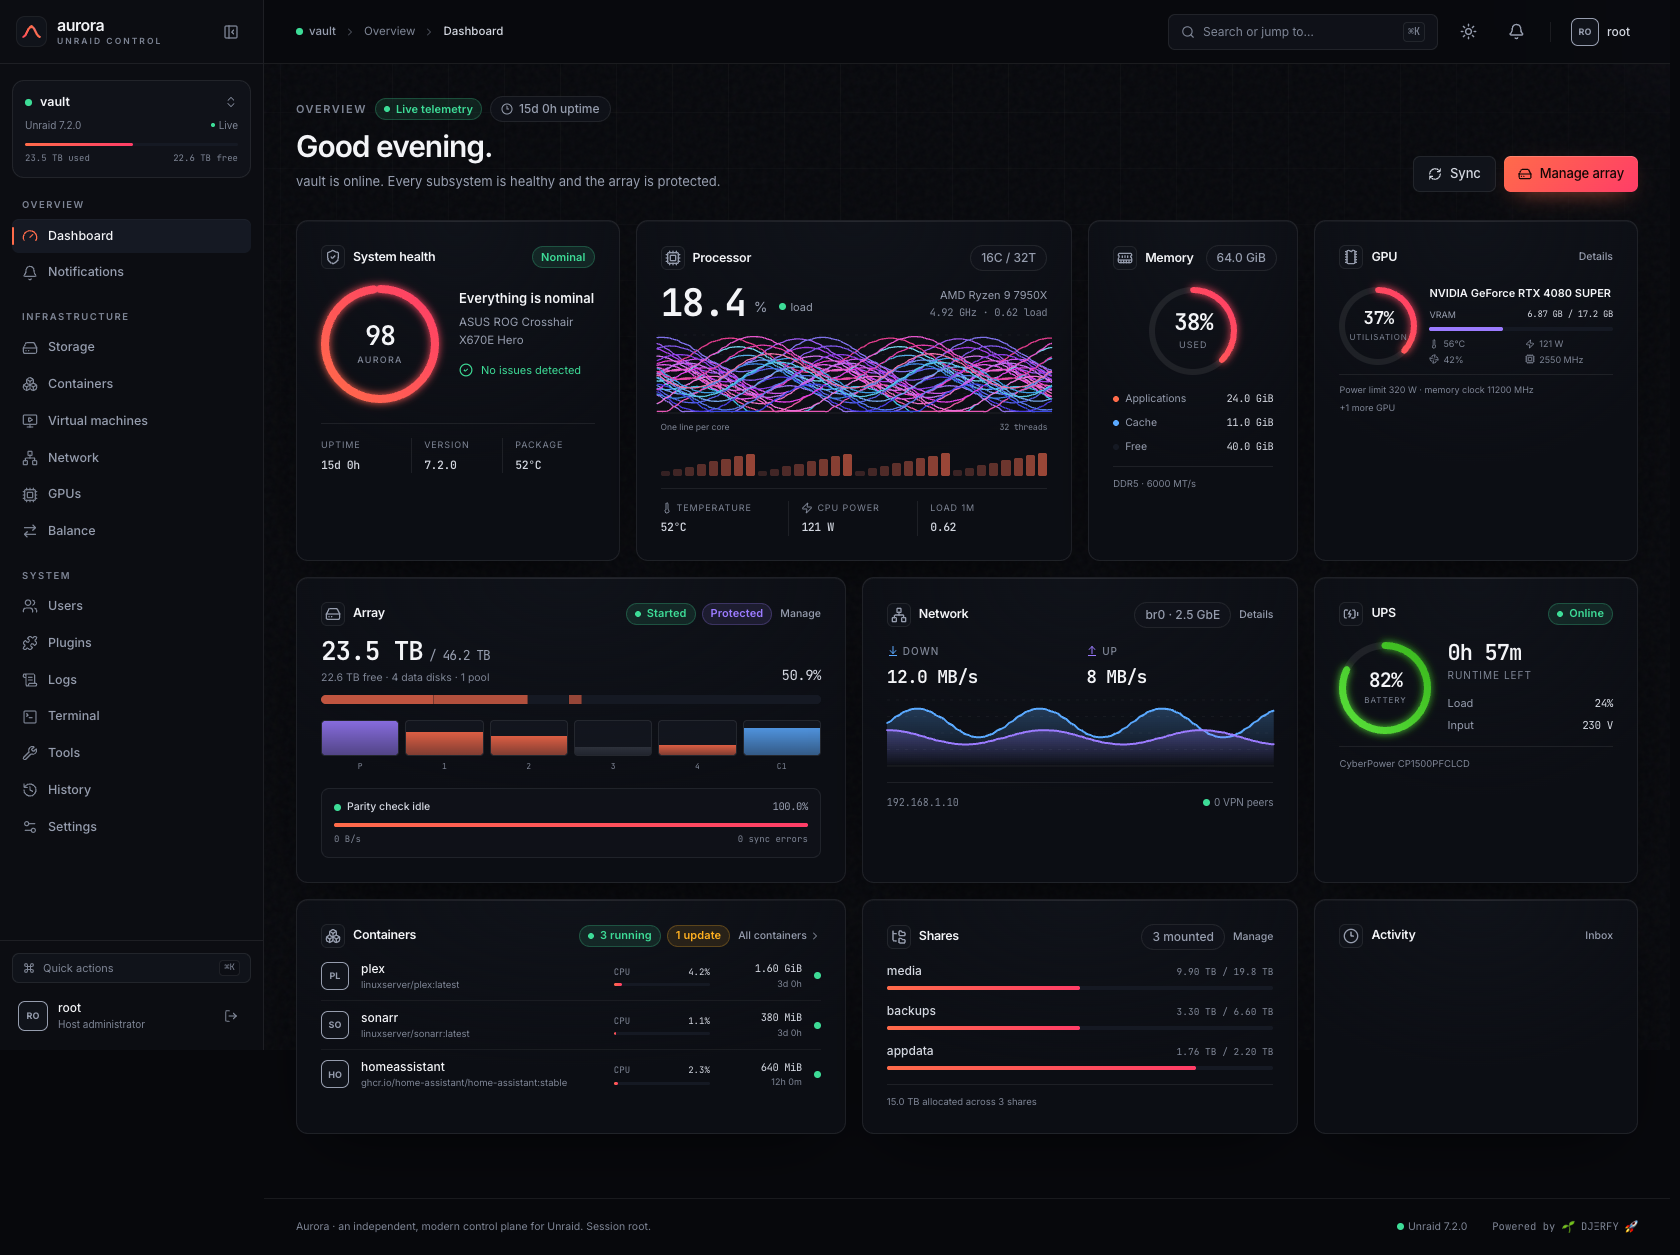
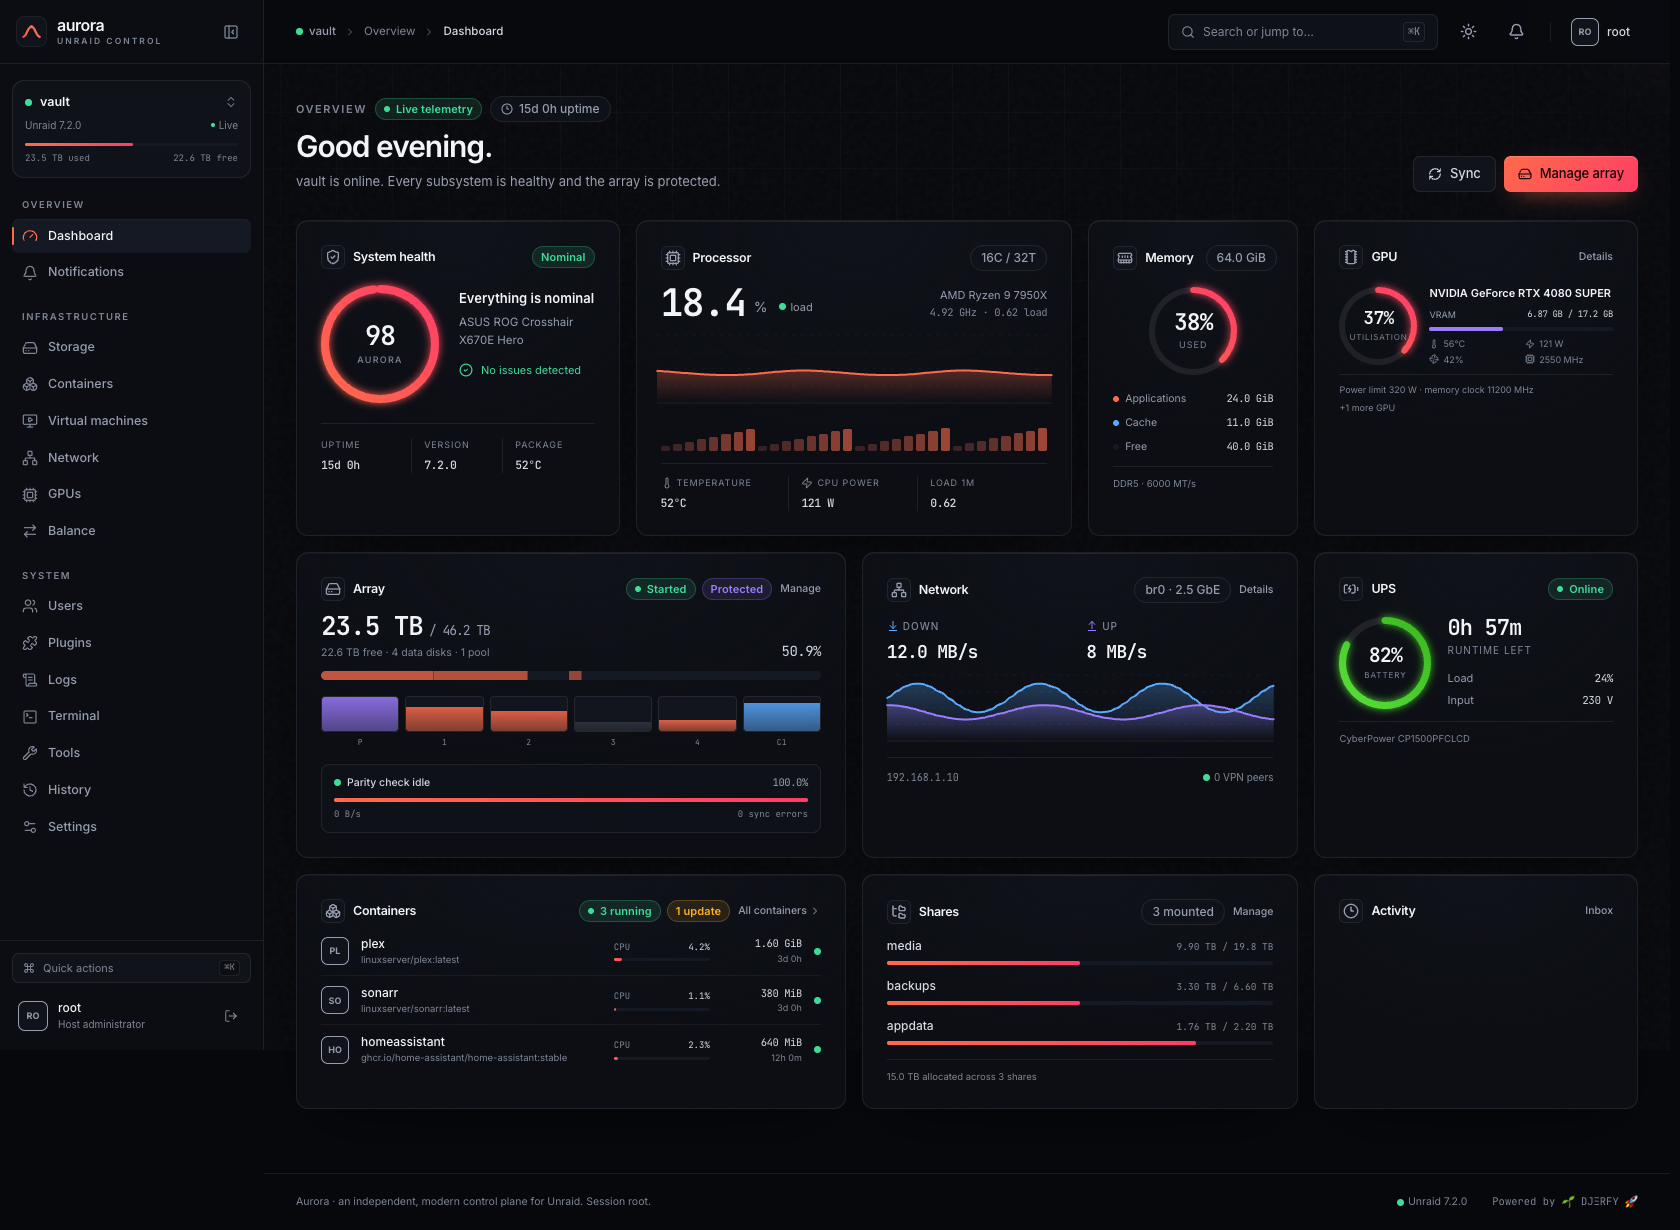
revert(dashboard): restore the aggregate CPU graph

diff --git a/frontend/src/pages/Dashboard.tsx b/frontend/src/pages/Dashboard.tsx
@@ -69,16 +69,7 @@ export function DashboardPage() {
   const gpu = gpus[0] ?? null;
   const gpuCount = gpus.length;
   const gpuVram = gpu && gpu.memoryTotal > 0 ? (gpu.memoryUsed / gpu.memoryTotal) * 100 : 0;
-  const coreCount = Math.max(metrics?.cores.length ?? 0, system.cpu.perCore.length, system.cpu.threads);
-  const coreSeries = Array.from({ length: coreCount }, (_, index) => ({
-    values: points.map((point) => point.cores?.[index] ?? 0),
-    color: coreColor(index, coreCount),
-    label: `Core ${index}`,
-  }));
-  const hasCoreHistory = points.some((point) => (point.cores?.length ?? 0) > 0);
-  const cpuSeries = hasCoreHistory
-    ? coreSeries
-    : [{ values: cpuHistory, color: "var(--accent)", label: "CPU" }];
+
   const primaryShare = [...shares].sort((a, b) => b.used - a.used).slice(0, 4);
   const issueCount = system.health.issues.length;
   const arrayDisks = disks
@@ -228,21 +219,14 @@ export function DashboardPage() {
           </div>
           <div className="-mx-1 mt-2">
             <AreaChart
-              series={cpuSeries}
+              series={[{ values: cpuHistory, color: "var(--accent)", label: "CPU" }]}
               timestamps={timestamps}
-              height={88}
+              height={78}
               domain={[0, 100]}
-              fill={false}
-              showCursor={false}
-              strokeWidth={1.3}
               formatValue={(value) => `${value.toFixed(1)}%`}
             />
           </div>
-          <div className="mt-1 flex items-center justify-between text-[8.5px] text-subtle">
-            <span>{hasCoreHistory ? t("One line per core") : t("CPU load")}</span>
-            <span className="num">{coreCount} {t("threads")}</span>
-          </div>
-          <div className="mt-1.5">
+          <div className="mt-2">
             <CoreMatrix values={metrics?.cores ?? system.cpu.perCore} />
           </div>
           <div className="mt-3 grid grid-cols-3 divide-x divide-line border-t border-line pt-3">
@@ -751,16 +735,6 @@ function metric(value: number) {
 function batteryColor(percent: number, lightness: number) {
   const ratio = (Math.min(100, Math.max(20, percent)) - 20) / 80;
   return `hsl(${Math.round(ratio * 140)} 72% ${lightness}%)`;
-}
-
-// Golden-angle hues keep adjacent cores visually distinct, even on 32-thread CPUs.
-function coreColor(index: number, total: number) {
-  if (total <= 10) {
-    return ["#5AA9FF", "#3DDC97", "#FACC15", "#FB923C", "#F472B6", "#C084FC", "#38BDF8", "#2DD4BF", "#A3E635", "#F87171"][index % 10];
-  }
-  const hue = 192 + ((index * 137.508) % 148);
-  const lightness = 56 + (index % 3) * 6;
-  return `hsl(${hue.toFixed(0)} 74% ${lightness}%)`;
 }
 
 function formatRuntime(minutes: number) {

diff --git a/frontend/src/i18n/locales/fr/dashboard.ts b/frontend/src/i18n/locales/fr/dashboard.ts
@@ -59,10 +59,7 @@ const dashboard: Record<string, string> = {
   "GPU": "GPU",
   "No GPU detected": "Aucun GPU détecté",
   "+{count} more GPU": "+{count} autre GPU",
-  "One line per core": "Une ligne par cœur",
-  "CPU load": "Charge CPU",
   "CPU power": "Puissance CPU",
-  "threads": "threads",
   "Containers": "Conteneurs",
   "{count} running": "{count} en cours",
   "{count} update": "{count} mise à jour",

diff --git a/frontend/src/app/AppDataProvider.tsx b/frontend/src/app/AppDataProvider.tsx
@@ -88,7 +88,6 @@ export function AppDataProvider({ children }: { children: ReactNode }) {
               diskRead: next.diskRead,
               diskWrite: next.diskWrite,
               temp: next.temp,
-              cores: next.cores,
             },
           ]),
         );

diff --git a/frontend/src/lib/types.ts b/frontend/src/lib/types.ts
@@ -625,7 +625,6 @@ export type MetricPoint = {
   diskRead: number;
   diskWrite: number;
   temp: number;
-  cores: number[];
 };
 
 export type Snapshot = {

diff --git a/backend/internal/model/model.go b/backend/internal/model/model.go
@@ -686,15 +686,14 @@ type Metrics struct {
 }
 
 type MetricPoint struct {
-	T         int64     `json:"t"`
-	CPU       float64   `json:"cpu"`
-	Memory    float64   `json:"memory"`
-	NetRx     float64   `json:"netRx"`
-	NetTx     float64   `json:"netTx"`
-	DiskRead  float64   `json:"diskRead"`
-	DiskWrite float64   `json:"diskWrite"`
-	Temp      float64   `json:"temp"`
-	Cores     []float64 `json:"cores"`
+	T         int64   `json:"t"`
+	CPU       float64 `json:"cpu"`
+	Memory    float64 `json:"memory"`
+	NetRx     float64 `json:"netRx"`
+	NetTx     float64 `json:"netTx"`
+	DiskRead  float64 `json:"diskRead"`
+	DiskWrite float64 `json:"diskWrite"`
+	Temp      float64 `json:"temp"`
 }
 
 type Snapshot struct {

diff --git a/backend/internal/metrics/hub.go b/backend/internal/metrics/hub.go
@@ -31,7 +31,7 @@ func NewHub(p provider.Provider) *Hub {
 			h.latest = model.Metrics{
 				T: last.T, CPU: last.CPU, Memory: last.Memory, NetRx: last.NetRx,
 				NetTx: last.NetTx, DiskRead: last.DiskRead, DiskWrite: last.DiskWrite,
-				Temp: last.Temp, Cores: last.Cores,
+				Temp: last.Temp,
 			}
 		}
 	}
@@ -67,7 +67,6 @@ func (h *Hub) sample(ctx context.Context) {
 	h.history = append(h.history, model.MetricPoint{
 		T: m.T, CPU: m.CPU, Memory: m.Memory, NetRx: m.NetRx,
 		NetTx: m.NetTx, DiskRead: m.DiskRead, DiskWrite: m.DiskWrite, Temp: m.Temp,
-		Cores: append([]float64(nil), m.Cores...),
 	})
 	if len(h.history) > 1800 {
 		h.history = h.history[len(h.history)-1800:]

diff --git a/backend/internal/provider/live.go b/backend/internal/provider/live.go
@@ -830,7 +830,6 @@ func (l *Live) Metrics(ctx context.Context) (model.Metrics, error) {
 	l.history = append(l.history, model.MetricPoint{
 		T: metrics.T, CPU: metrics.CPU, Memory: metrics.Memory, NetRx: netRx,
 		NetTx: netTx, DiskRead: diskRead, DiskWrite: diskWrite, Temp: metrics.Temp,
-		Cores: append([]float64(nil), cores...),
 	})
 	if len(l.history) > historyLength {
 		l.history = l.history[len(l.history)-historyLength:]

diff --git a/README.md b/README.md
@@ -262,7 +262,7 @@ Deep dives:
 
 | Area | Aurora |
 |---|---|
-| Dashboard | Health score, per-core CPU graph and package power, memory, GPU, array capacity, parity progress, network, UPS, containers, shares, activity |
+| Dashboard | Health score, CPU load graph and per-core matrix, package power, memory, GPU, array capacity, parity progress, network, UPS, containers, shares, activity |
 | Storage | Array devices with live I/O and spin controls, shares, cache pools, parity check + history |
 | Containers | Docker workloads with real icons, CPU/memory, ports, network, IP address, autostart toggle, image update checks, live pull/recreate progress, create from an Unraid XML template, remove, lifecycle, logs and a settings editor for paths, ports, environment and restart policy |
 | Virtual machines | KVM inventory, vCPU/RAM/disk usage, GPU passthrough, autostart toggle, read-only libvirt XML view, lifecycle actions and a VNC/SPICE console |

diff --git a/docs/USER_GUIDE.md b/docs/USER_GUIDE.md
@@ -76,7 +76,7 @@ files and commands as the official webGUI.
 The dashboard is the operational summary of the host:
 
 - **Health score** and detected issues.
-- **CPU** usage, temperature, package power and a live graph with one line per core/thread.
+- **CPU** usage, temperature, package power and a live per-core matrix.
 - **GPU** utilisation, VRAM, temperature, power, fan and clocks (first GPU, with a link to the GPU page).
 - **Memory** used/available.
 - **Array** state, capacity and protection.
